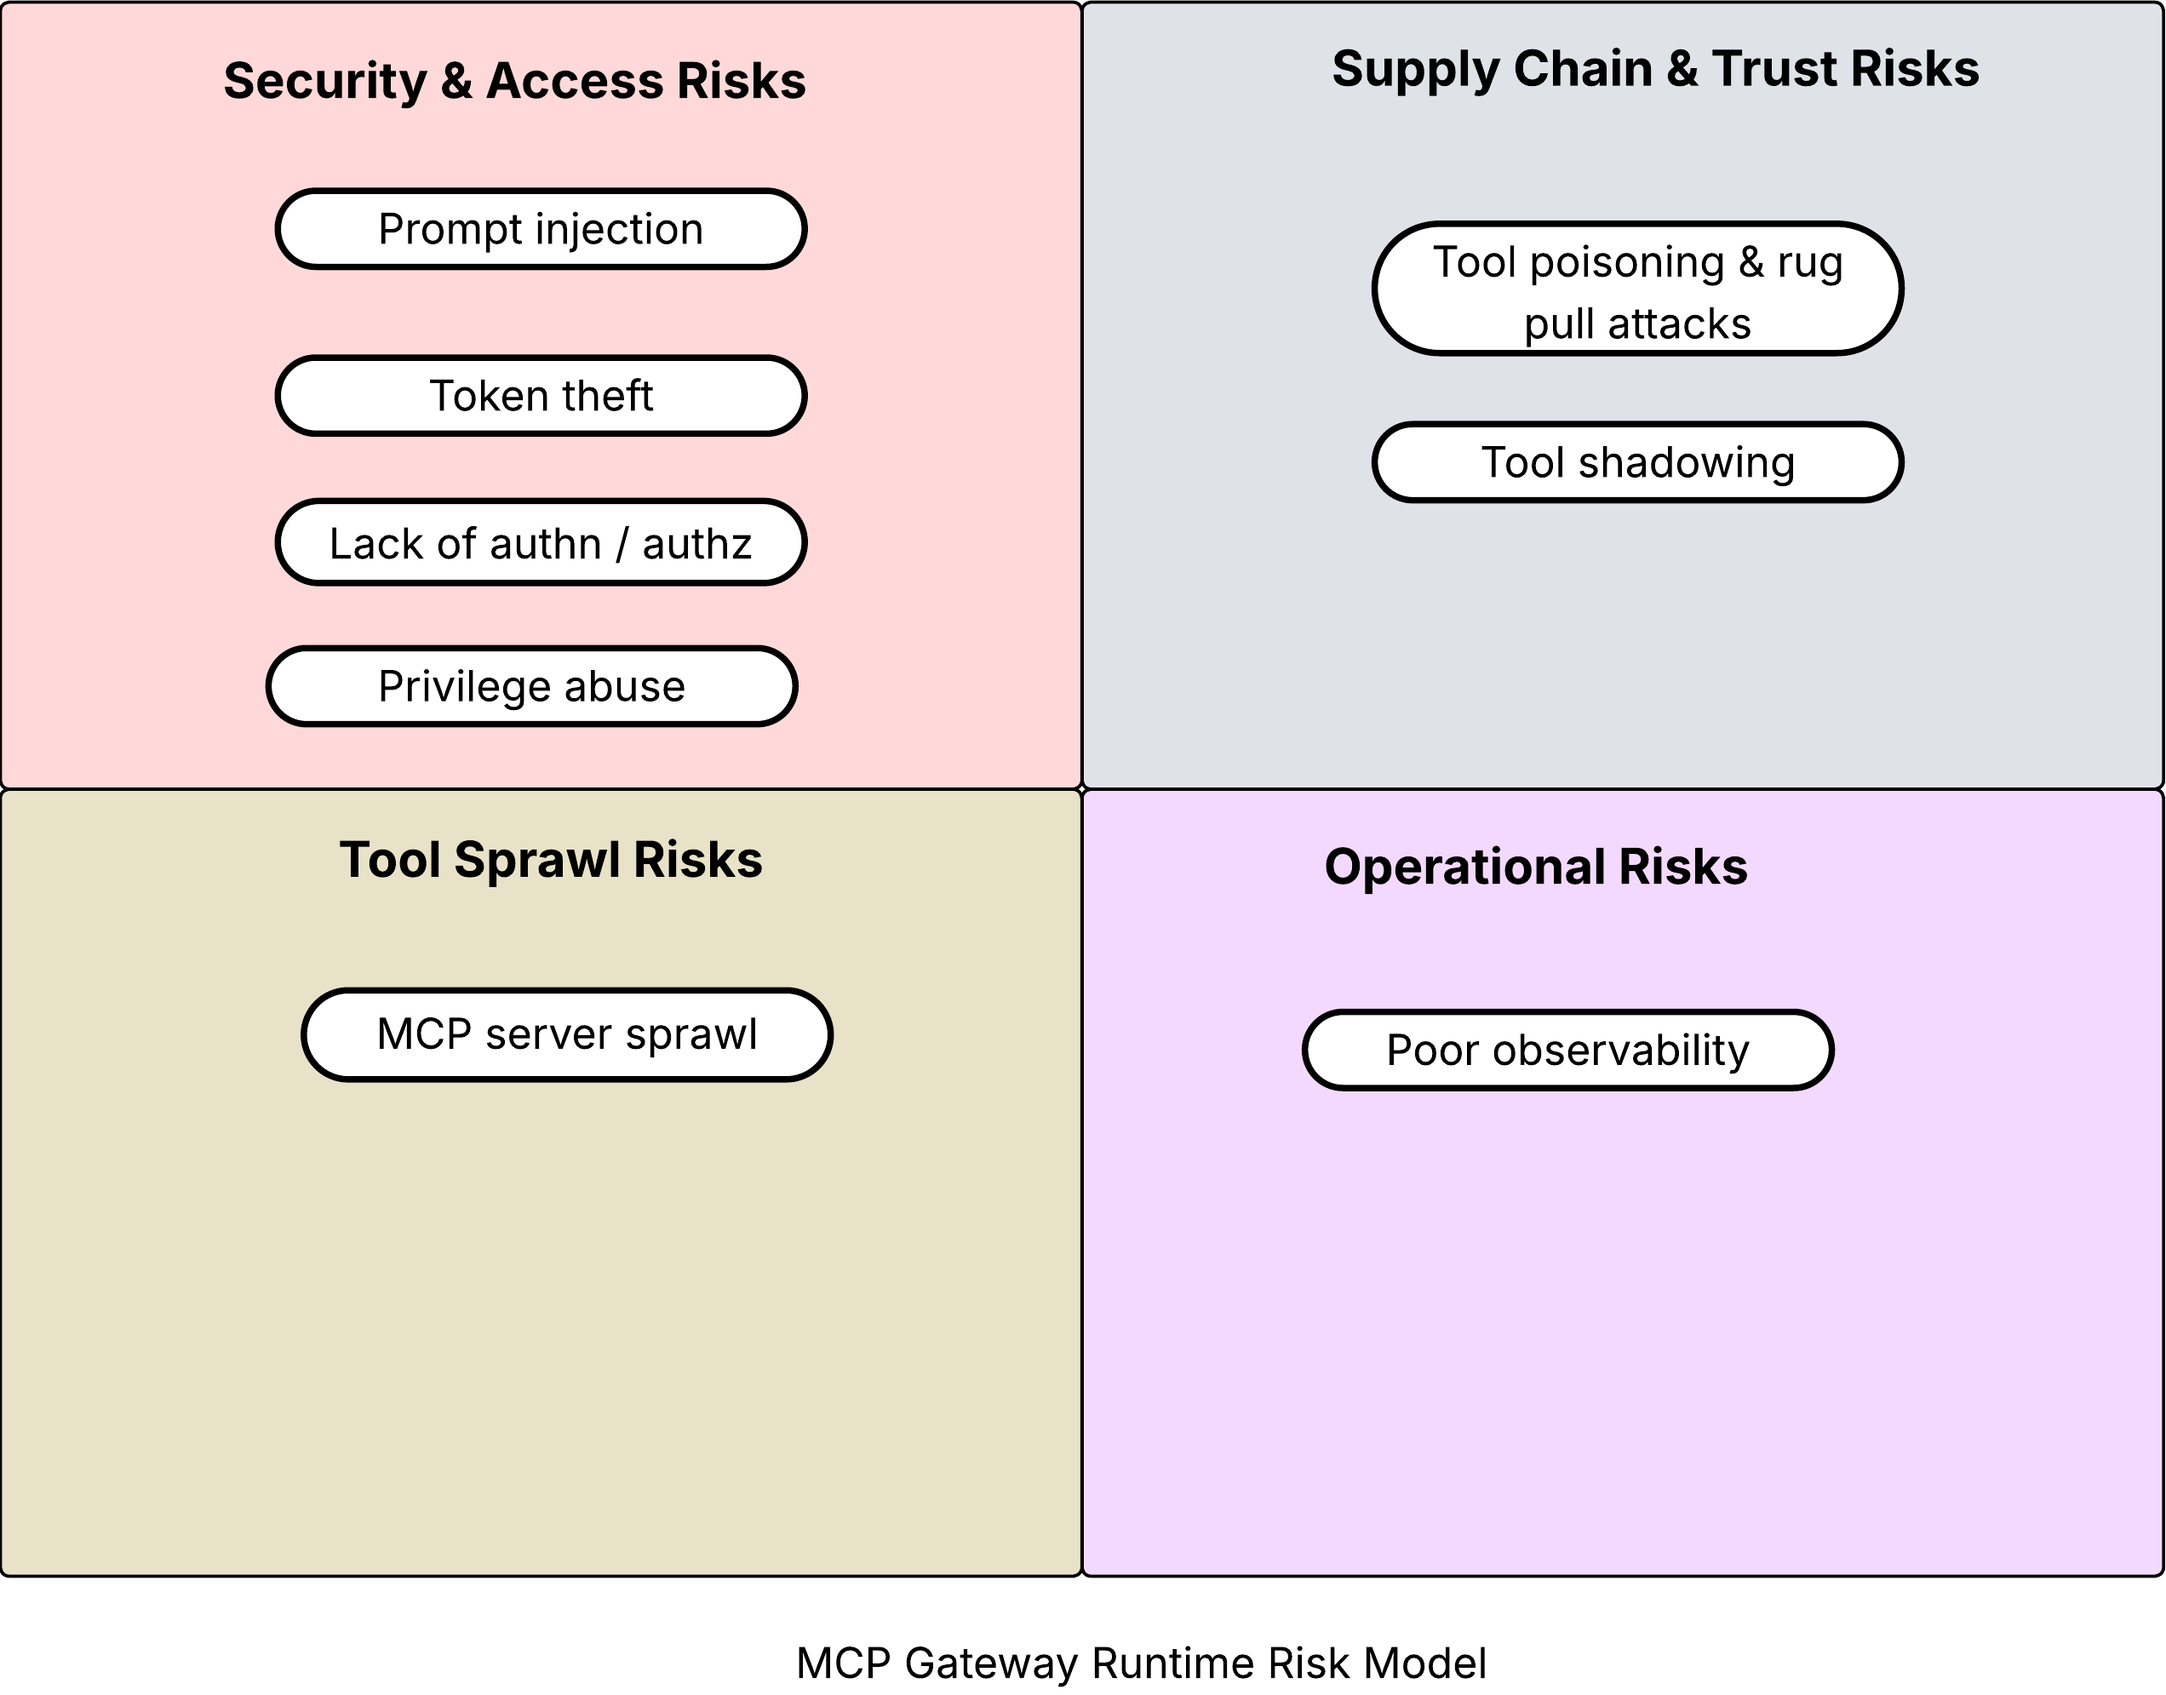
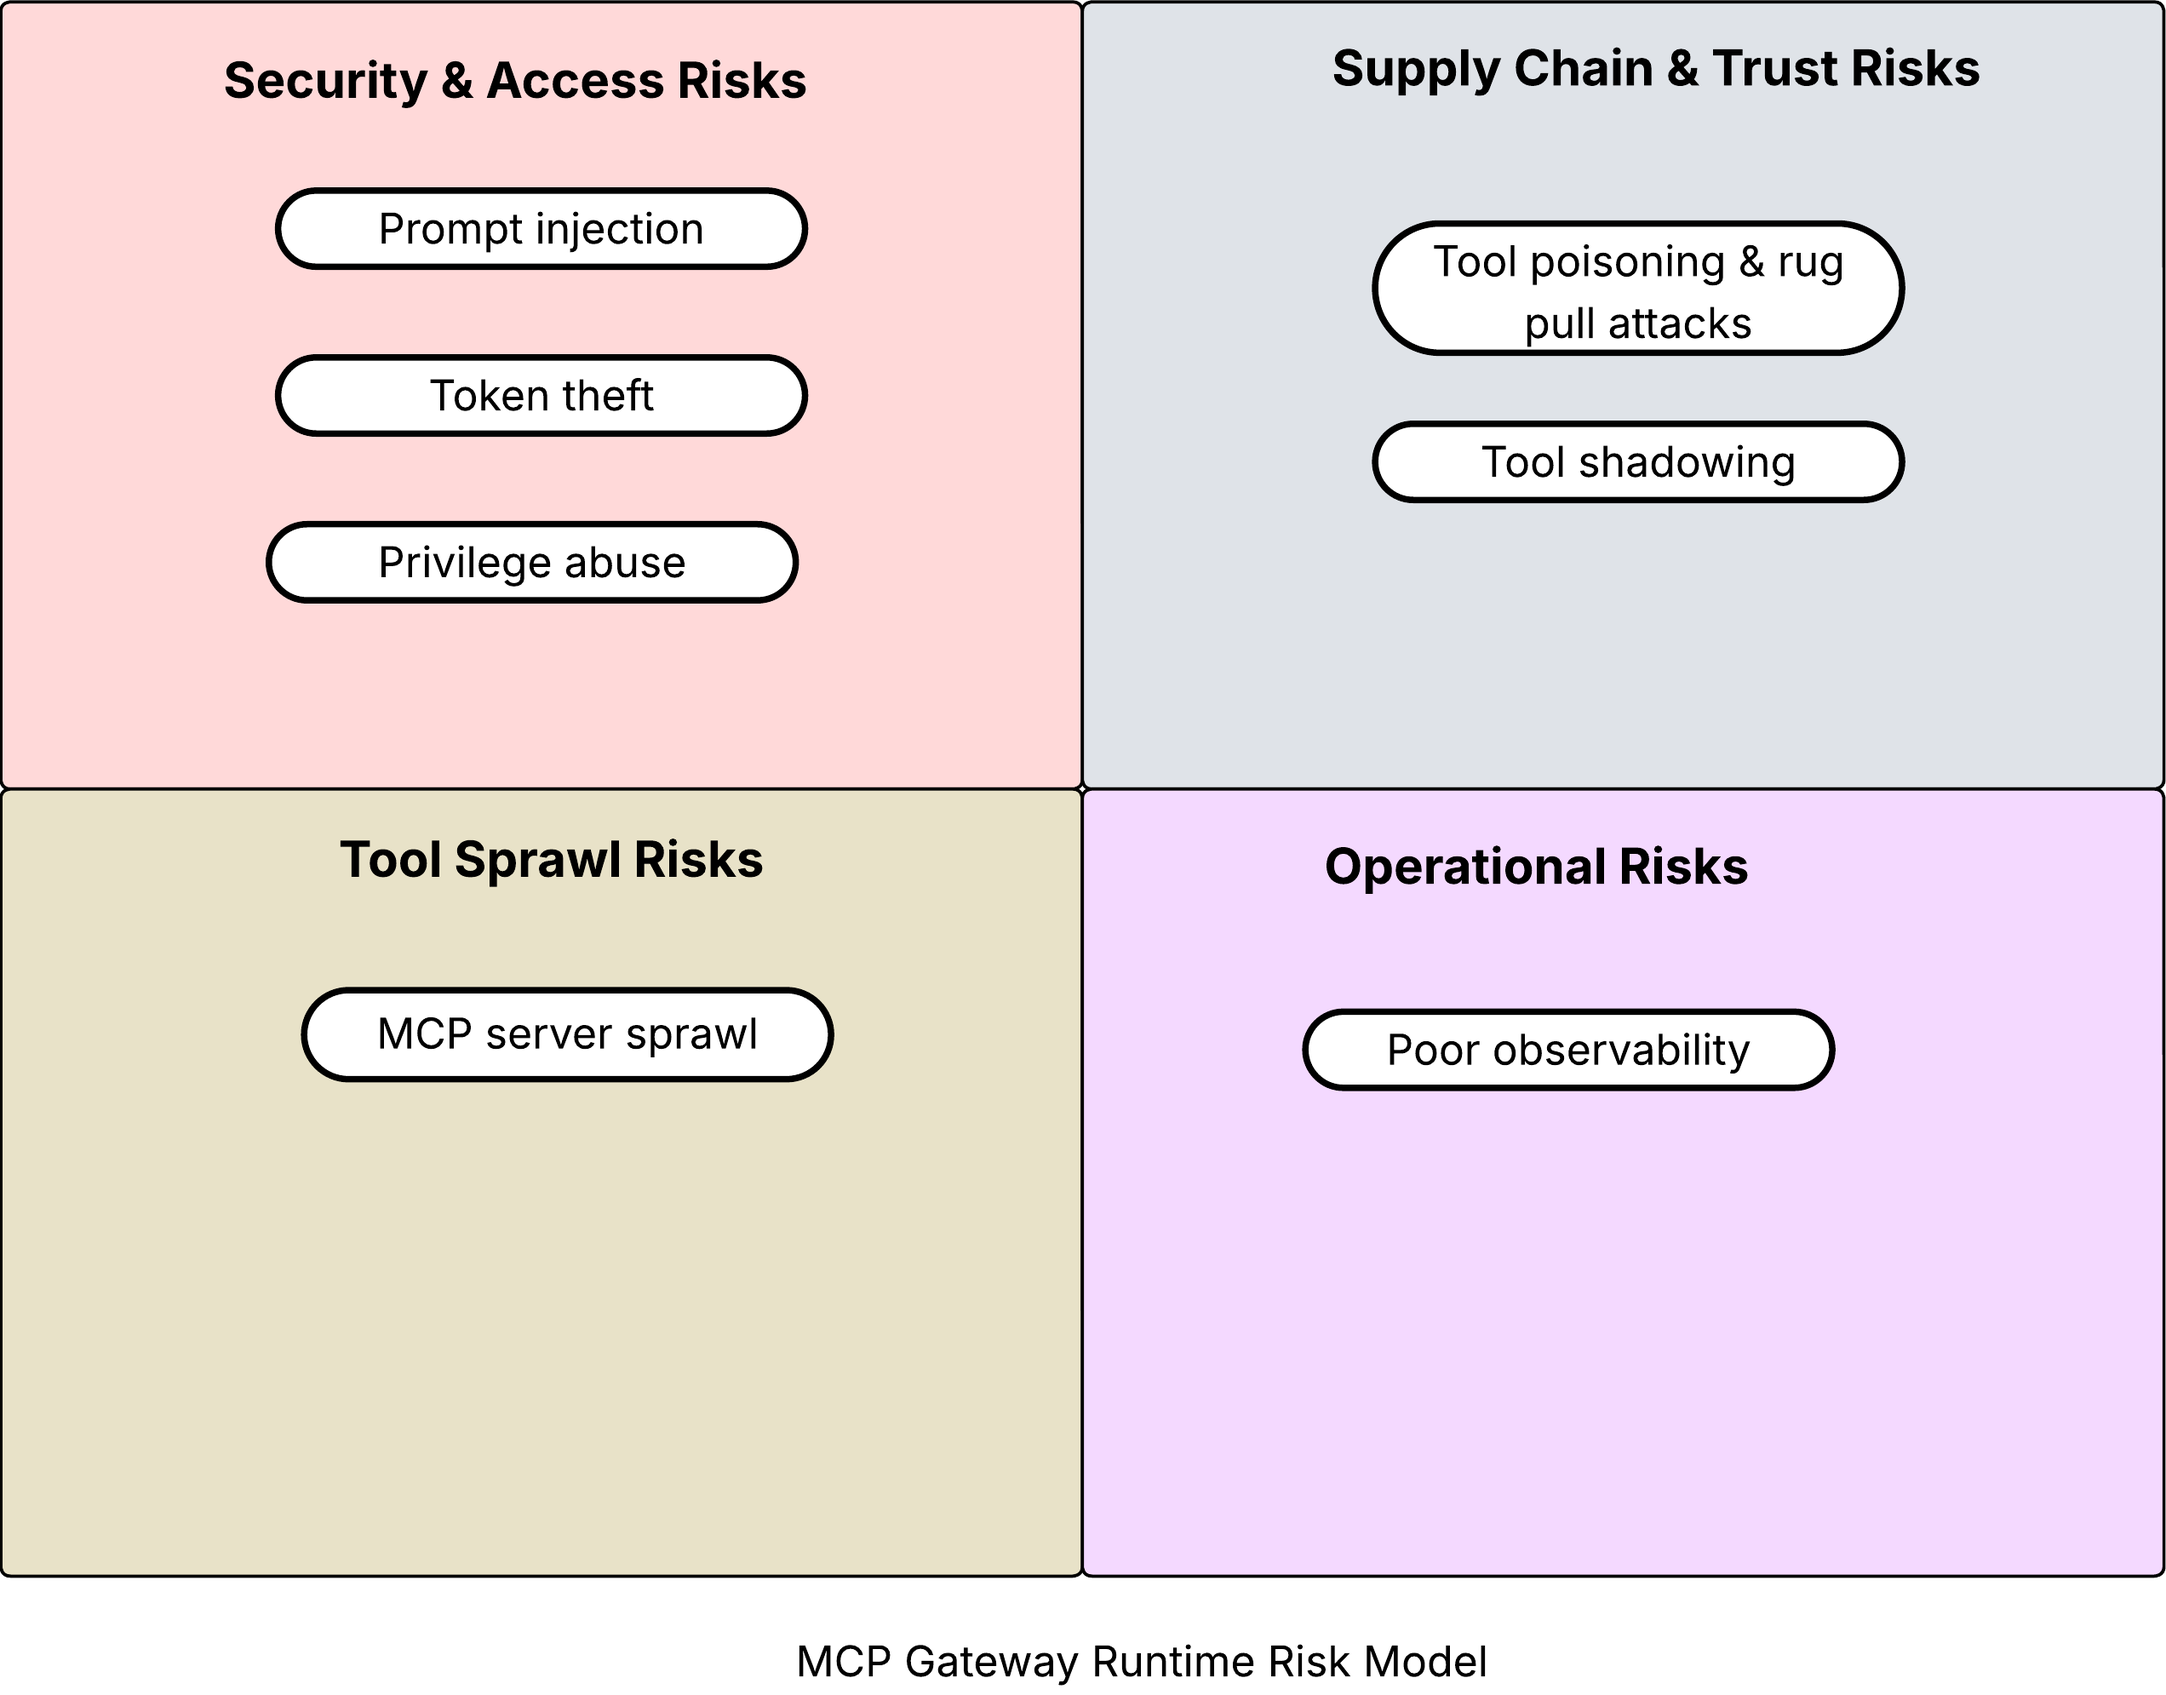
Update on MCP risks

diff --git a/docs/mcp-gateway/risks.md b/docs/mcp-gateway/risks.md
@@ -23,7 +23,6 @@ Attackers can use malicious inputs (directly or via external data) to trick an a
 #### Token theft
 A compromised MCP server can lead to the theft of high-value secrets like OAuth tokens and API keys, granting attackers persistent access to connected services. 
 
-#### Lack of authn / authz
 
 #### Privilege abuse
 A malicious request from a user can trick an MCP server into accessing resources that the user should not have access to, violating security boundaries. 
@@ -49,6 +48,8 @@ No visibility into how MCP servers are being used, making it difficult to detect
 
 
 ### Tool Sprawl Risks
+
+---
 
 #### MCP Server Sprawl
 
